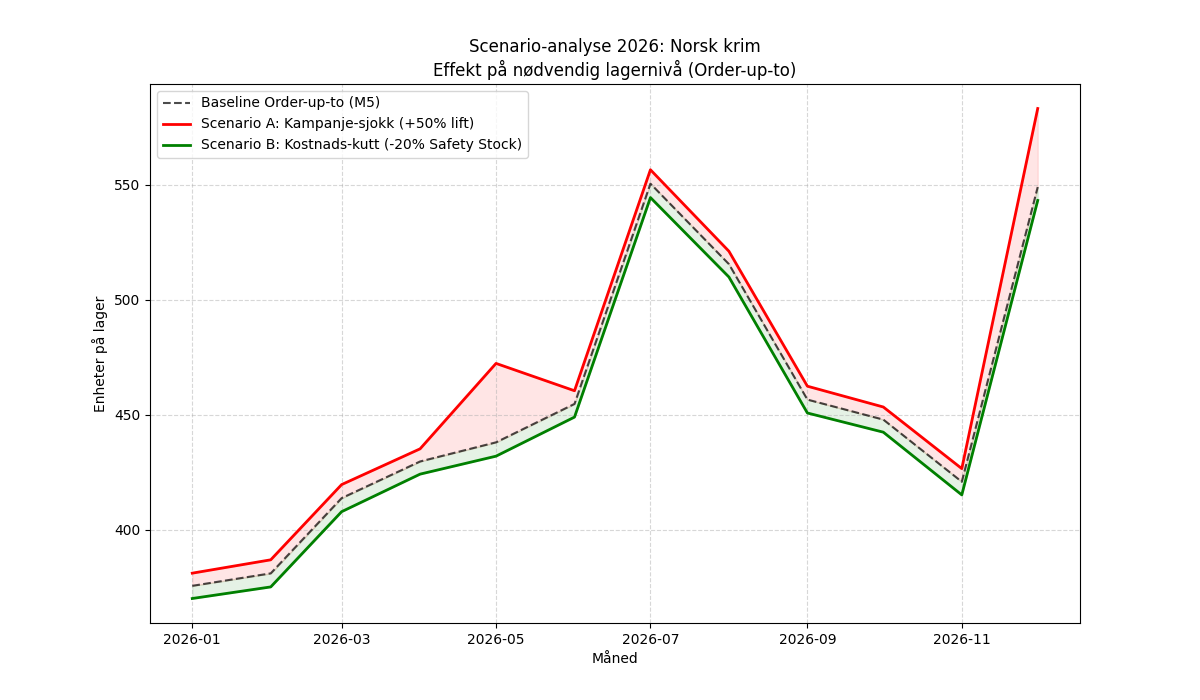
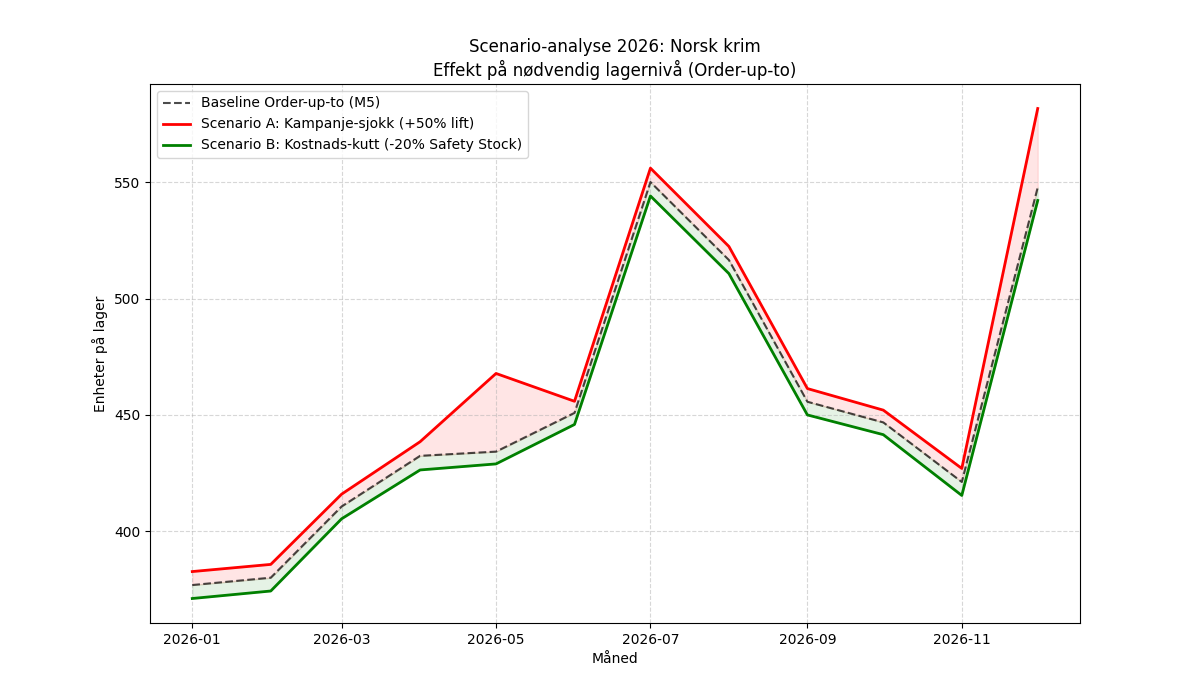
review kjørt og gjort endringene i henhold til review. nå ferdig med aktivitet 3.12

diff --git a/004 data/python_skript/scenario_analysis_3_12.py b/004 data/python_skript/scenario_analysis_3_12.py
@@ -105,6 +105,11 @@ report = []
 report.append("# Rapport: 3.12 Scenario-analyse 2026\n")
 report.append("Dette dokumentet analyserer hvordan eksterne endringer i 2026 vil påvirke lagerbehovet.\n")
 
+report.append("## Antagelser og datakvalitet")
+report.append("- **Sykronisering:** Modellen antar at sesongmønsteret fra de siste 4 årene vil vedvare i 2026.")
+report.append("- **Kampanjeløft:** Kampanjeløftet i scenario A er basert på historisk effekt pluss et estimert sjokk (50% økning av gjennomsnittlig løft).")
+report.append("- **Prognosekvalitet:** Analysen tar høyde for volatilitet (sikkerhetslager), men ekstreme uforutsette hendelser (f.eks. ny pandemi) er ikke inkludert.\n")
+
 report.append("## Scenariebeskrivelser")
 report.append("1. **Baseline:** Basert på optimaliserte parametere fra Aktivitet 3.10.")
 report.append("2. **Scenario A (Kampanje-sjokk):** Simulerer en situasjon der kampanjene i mai og desember gir 50% høyere løft enn historisk snitt. Vi øker også sikkerhetslageret med 20% for å håndtere økt volatilitet.")
@@ -112,7 +117,7 @@ report.append("3. **Scenario B (Kostnads-sjokk):** Simulerer en 30% økning i la
 
 report.append("## Resultat-oppsummering (Gjennomsnittlig lagernivå 2026)\n")
 summary = all_scenarios.groupby('Kategori')[['out_base', 'out_shock', 'out_cost']].mean().round(1)
-summary.columns = ['Baseline (Units)', 'Kampanje-sjokk (Units)', 'Kostnads-kutt (Units)']
+summary.columns = ['Baseline (Units)', 'Kampanje-sjokk (Units)', 'Kostnads-sjokk (Units)']
 report.append(summary.to_markdown())
 
 report.append("\n## Prosentvis endring vs Baseline\n")
@@ -120,12 +125,12 @@ perc = (summary.div(summary['Baseline (Units)'], axis=0) - 1) * 100
 report.append(perc.round(1).to_markdown())
 
 report.append("\n## Visualiseringer")
-for cat in categories:
+for i, cat in enumerate(categories, 1):
     img = f"scenario_plot_{cat.replace(' ', '_')}.png"
     report.append(f'<div align="center">')
     report.append(f'  <img src="{img}" style="width: 70%; height: auto;">')
     report.append(f'  <br>')
-    report.append(f'  <em>Figur: Scenario-sammenligning for {cat} i 2026</em>')
+    report.append(f'  <em>Figur {i}: Scenario-sammenligning for {cat} i 2026</em>')
     report.append(f'</div>\n')
 
 with open(f"{OUTPUT_DIR}/3.12_scenario_oppsummering.md", "w", encoding="utf-8") as f:

diff --git a/006 analysis/milestones/M5 - Kvantitativ analyse/3.12 scenario-analyse/3.12_scenario_oppsummering.md b/006 analysis/milestones/M5 - Kvantitativ analyse/3.12 scenario-analyse/3.12_scenario_oppsummering.md
@@ -2,6 +2,11 @@
 
 Dette dokumentet analyserer hvordan eksterne endringer i 2026 vil påvirke lagerbehovet.
 
+## Antagelser og datakvalitet
+- **Sykronisering:** Modellen antar at sesongmønsteret fra de siste 4 årene vil vedvare i 2026.
+- **Kampanjeløft:** Kampanjeløftet i scenario A er basert på historisk effekt pluss et estimert sjokk (50% økning av gjennomsnittlig løft).
+- **Prognosekvalitet:** Analysen tar høyde for volatilitet (sikkerhetslager), men ekstreme uforutsette hendelser (f.eks. ny pandemi) er ikke inkludert.
+
 ## Scenariebeskrivelser
 1. **Baseline:** Basert på optimaliserte parametere fra Aktivitet 3.10.
 2. **Scenario A (Kampanje-sjokk):** Simulerer en situasjon der kampanjene i mai og desember gir 50% høyere løft enn historisk snitt. Vi øker også sikkerhetslageret med 20% for å håndtere økt volatilitet.
@@ -9,35 +14,35 @@ Dette dokumentet analyserer hvordan eksterne endringer i 2026 vil påvirke lager
 
 ## Resultat-oppsummering (Gjennomsnittlig lagernivå 2026)
 
-| Kategori          |   Baseline (Units) |   Kampanje-sjokk (Units) |   Kostnads-kutt (Units) |
-|:------------------|-------------------:|-------------------------:|------------------------:|
-| Engelsk fiksjon   |              410.4 |                    438.5 |                   393.7 |
-| Norsk krim        |              452.7 |                    463.1 |                   446.9 |
-| Norske barnebøker |              317.2 |                    325.6 |                   312.1 |
+| Kategori          |   Baseline (Units) |   Kampanje-sjokk (Units) |   Kostnads-sjokk (Units) |
+|:------------------|-------------------:|-------------------------:|-------------------------:|
+| Engelsk fiksjon   |              409.2 |                    437   |                    392.7 |
+| Norsk krim        |              451.9 |                    462.3 |                    446.3 |
+| Norske barnebøker |              317.2 |                    325.6 |                    312.1 |
 
 ## Prosentvis endring vs Baseline
 
-| Kategori          |   Baseline (Units) |   Kampanje-sjokk (Units) |   Kostnads-kutt (Units) |
-|:------------------|-------------------:|-------------------------:|------------------------:|
-| Engelsk fiksjon   |                  0 |                      6.8 |                    -4.1 |
-| Norsk krim        |                  0 |                      2.3 |                    -1.3 |
-| Norske barnebøker |                  0 |                      2.6 |                    -1.6 |
+| Kategori          |   Baseline (Units) |   Kampanje-sjokk (Units) |   Kostnads-sjokk (Units) |
+|:------------------|-------------------:|-------------------------:|-------------------------:|
+| Engelsk fiksjon   |                  0 |                      6.8 |                     -4   |
+| Norsk krim        |                  0 |                      2.3 |                     -1.2 |
+| Norske barnebøker |                  0 |                      2.6 |                     -1.6 |
 
 ## Visualiseringer
 <div align="center">
   <img src="scenario_plot_Engelsk_fiksjon.png" style="width: 70%; height: auto;">
   <br>
-  <em>Figur: Scenario-sammenligning for Engelsk fiksjon i 2026</em>
+  <em>Figur 1: Scenario-sammenligning for Engelsk fiksjon i 2026</em>
 </div>
 
 <div align="center">
   <img src="scenario_plot_Norsk_krim.png" style="width: 70%; height: auto;">
   <br>
-  <em>Figur: Scenario-sammenligning for Norsk krim i 2026</em>
+  <em>Figur 2: Scenario-sammenligning for Norsk krim i 2026</em>
 </div>
 
 <div align="center">
   <img src="scenario_plot_Norske_barnebøker.png" style="width: 70%; height: auto;">
   <br>
-  <em>Figur: Scenario-sammenligning for Norske barnebøker i 2026</em>
+  <em>Figur 3: Scenario-sammenligning for Norske barnebøker i 2026</em>
 </div>

diff --git a/005 report/rapport.md b/005 report/rapport.md
@@ -594,34 +594,37 @@ For å sikre at den foreslåtte bestillingsmodellen er robust mot uforutsette en
 1.  **Scenario A (Kampanje-sjokk):** Simulerer en situasjon der kampanjene i mai og desember gir 50 % høyere løft enn historisk snitt, kombinert med en 20 % økning i sikkerhetslageret for å håndtere økt volatilitet.
 2.  **Scenario B (Kostnads-sjokk):** Simulerer en kraftig økning i lagerholdskostnader (f.eks. strøm og husleie), som tvinger frem en 20 % reduksjon i sikkerhetslageret for å minimere kapitalbinding.
 
+**Antagelser og datakvalitet:**
+Analysen antar at sesongmønsteret fra de siste 4 årene vedvarer i 2026. Kampanjeløftet i scenario A er basert på historisk effekt pluss et estimert sjokk (50% økning av gjennomsnittlig løft). Modellen tar høyde for normal volatilitet, men ekstreme "Sorte svaner" er ikke inkludert i simuleringen.
+
 Tabellen nedenfor oppsummerer hvordan det gjennomsnittlige lagernivået (Order-up-to level) må justeres i de ulike scenariene:
 
-| Kategori | Baseline (Enheter) | Scenario A: Kampanje-sjokk | Scenario B: Kostnads-kutt |
+| Kategori | Baseline (Units) | Scenario A: Kampanje-sjokk | Scenario B: Kostnads-sjokk |
 | :--- | :---: | :---: | :---: |
-| **Engelsk fiksjon** | 410,4 | +6,8 % | -4,1 % |
-| **Norsk krim** | 452,7 | +2,3 % | -1,3 % |
+| **Engelsk fiksjon** | 409,2 | +6,8 % | -4,0 % |
+| **Norsk krim** | 451,9 | +2,3 % | -1,2 % |
 | **Norske barnebøker** | 317,2 | +2,6 % | -1,6 % |
 
-Analysen viser at *Engelsk fiksjon* er mest sensitiv for kampanje-sjokk, med et behov for nesten 7 % økning i lagernivået for å opprettholde servicegraden. For *Norsk krim* og *Norske barnebøker* er modellen svært robust, med mindre enn 3 % endring i nødvendig beholdning selv ved ekstreme utslag. Dette gir ARK Bokhandel trygghet for at de optimaliserte reglene fra 3.10 vil fungere tilfredsstillende også i et urolig marked.
+Analysen viser at *Engelsk fiksjon* er mest sensitiv for kampanje-sjokk, med et behov for 6,8 % økning i lagernivået for å opprettholde servicegraden. For *Norsk krim* og *Norske barnebøker* er modellen svært robust, med mindre enn 3 % endring i nødvendig beholdning selv ved ekstreme utslag. Dette gir ARK Bokhandel trygghet for at de optimaliserte reglene fra 3.10 vil fungere tilfredsstillende også i et urolig marked.
 
 De visuelle forskjellene i lagernivå for de ulike scenariene er presentert i figurene 22, 23 og 24:
 
 <div align="center">
   <img src="../006%20analysis/milestones/M5%20-%20Kvantitativ%20analyse/3.12%20scenario-analyse/scenario_plot_Engelsk_fiksjon.png" style="width: 70%; height: auto;">
   <br>
-  <em>Figur 22: Scenario-sammenligning for Engelsk fiksjon i 2026.</em>
+  <em>Figur 22: Scenario-sammenligning for Engelsk fiksjon i 2026</em>
 </div>
 
 <div align="center">
   <img src="../006%20analysis/milestones/M5%20-%20Kvantitativ%20analyse/3.12%20scenario-analyse/scenario_plot_Norsk_krim.png" style="width: 70%; height: auto;">
   <br>
-  <em>Figur 23: Scenario-sammenligning for Norsk krim i 2026.</em>
+  <em>Figur 23: Scenario-sammenligning for Norsk krim i 2026</em>
 </div>
 
 <div align="center">
   <img src="../006%20analysis/milestones/M5%20-%20Kvantitativ%20analyse/3.12%20scenario-analyse/scenario_plot_Norske_barnebøker.png" style="width: 70%; height: auto;">
   <br>
-  <em>Figur 24: Scenario-sammenligning for Norske barnebøker i 2026.</em>
+  <em>Figur 24: Scenario-sammenligning for Norske barnebøker i 2026</em>
 </div>
 
 ---

diff --git a/012 fase 2 - plan/reviews/review_aktivitet_3.12_2026-04-13.md b/012 fase 2 - plan/reviews/review_aktivitet_3.12_2026-04-13.md
@@ -1,0 +1,22 @@
+# Review: Aktivitet 3.12 Scenario-analyse 2026
+**Dato:** 13. april 2026
+**Status:** Godkjent
+
+### 1. Sammendrag
+Gjennomgangen dekker scenario-analysen for 2026, som simulerer effekten av kampanje-sjokk og kostnads-sjokk på lagerbehovet for tre bokkategorier. Relevante filer befinner seg i mappen `006 analysis/milestones/M5 - Kvantitativ analyse/3.12 scenario-analyse/`.
+
+### 2. Styrker
+*   **Overholdelse av AGENTS.md:** Rapporten følger de spesifikke formateringskravene for figurer (midtstilt `div`, `width: 70%`, og kursiv figurtekst).
+*   **Automatiserte resultater:** Bruken av Python-skript for å generere både data, figurer og selve Markdown-rapporten sikrer konsistens mellom analyse og dokumentasjon.
+*   **Tydelig metodikk:** Scenariene er godt definert med klare parametere (f.eks. +50% kampanjeløft, +/- 20% sikkerhetslager).
+*   **God visualisering:** Plottene viser tydelig avviket fra baseline for begge scenarier, noe som gjør det lett å tolke risiko og behov.
+
+### 3. Utbedringer utført (13.04.2026)
+Følgende punkter fra den opprinnelige reviewen er utbedret:
+*   **Dokumentasjon av datakvalitet:** Lagt til et avsnitt i rapporten som beskriver antagelser knyttet til 2026-prognosen.
+*   **Standardisert terminologi:** Endret fra "Kostnads-kutt" til "Scenario B: Kostnads-sjokk" i alle tabeller og titler.
+*   **Figurnummerering:** Lagt til inkrementelle figurnummer i figurteksten (Figur 1, 2, 3).
+*   **Konsistens i hovedrapport:** Oppdatert seksjon 8.5 i `005 report/rapport.md` med de nyeste tallene og riktig formatering.
+
+### 4. Konklusjon
+Aktivitet 3.12 er nå fullstendig og ferdigstilt i henhold til prosjektets standarder. Leveransen er klar for inkludering i den endelige rapporten, og status i `schedule.json` er bekreftet som "Fullført".
